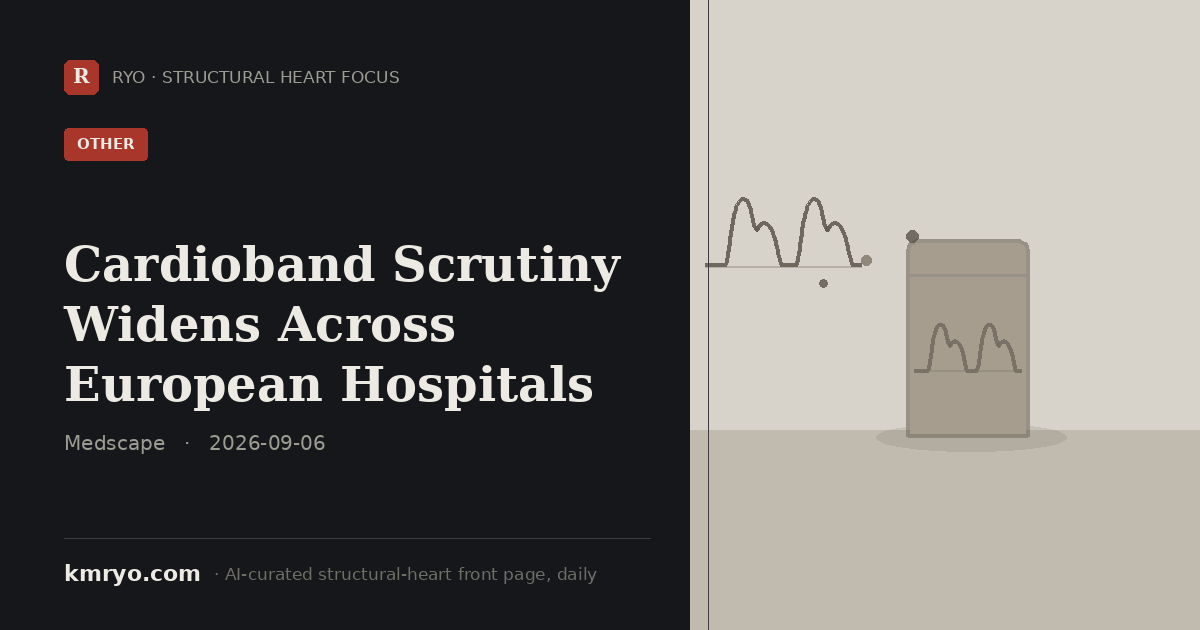
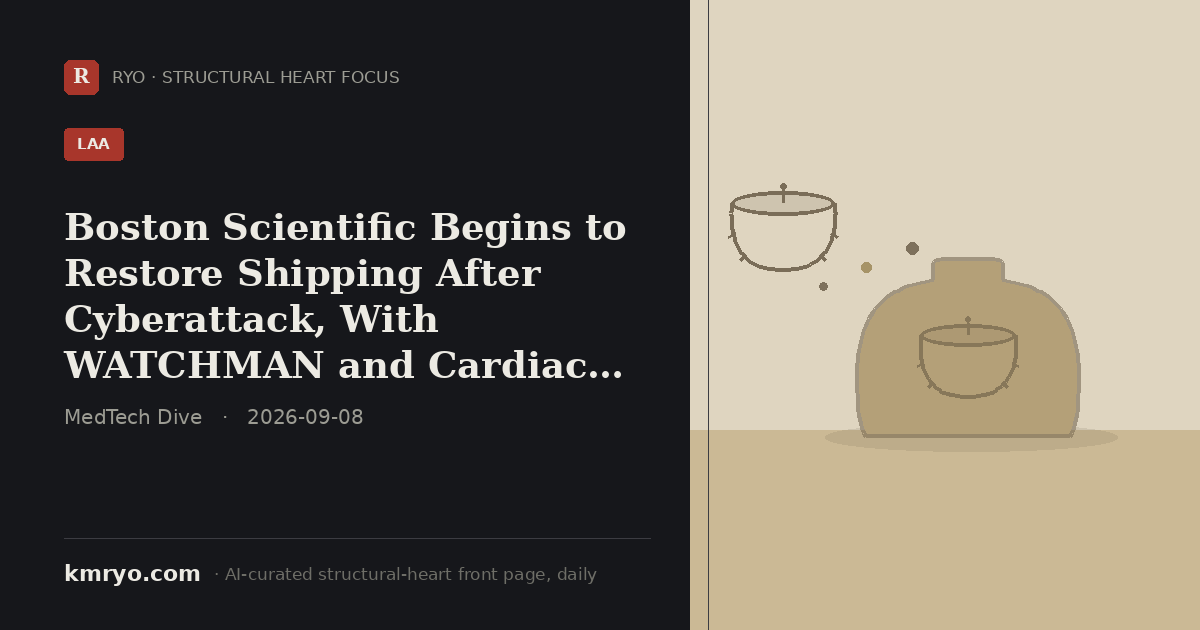
pulse: 2026-09-08 daily update
Claude-Session: https://claude.ai/code/session_01Pf5ib3bucTKQEFZGicXL93

Changed region(s): [[0.555, 0.3016, 1.0, 1.0], [0.0308, 0.3317, 0.5242, 0.7238], [0.0617, 0.181, 0.1233, 0.2714]]

diff --git a/index.html b/index.html
@@ -6,8 +6,8 @@
 <title>Structural Heart Focus — Daily | Dr. Mi Chen · 千觅量子 RYO</title>
 <meta name="description" content="Structural Heart Focus — the day's most important structural-heart reading (top journals, major meetings and the field's conversation), curated daily by an AI agent from inside the Zurich hybrid room. By Dr. Mi Chen · 千觅量子 RYO.">
 <!-- Social share card. Regenerated daily by the pulse agent (pulse/make_share_card.py); og:title/description updated to the day's top story so LinkedIn/WeChat/X show today's headline, not a static portrait. -->
-<meta property="og:title" content="Cardioband Scrutiny Widens Across European Hospitals">
-<meta property="og:description" content="A 216-page USZ commission report links Cardioband misuse under ex-chief Francesco Maisano to dozens of excess deaths (2016-2020), prompting reviews at Bern and German hospitals.">
+<meta property="og:title" content="Boston Scientific Begins to Restore Shipping After Cyberattack">
+<meta property="og:description" content="A cyberattack disclosed August 26 disrupted order processing and shipping for WATCHMAN, pacemakers, ICDs and other cardiac devices; Boston Scientific began restoring shipments September 4.">
 <meta property="og:image" content="https://www.kmryo.com/pulse/img/share/card.png">
 <meta property="og:image:width" content="1200">
 <meta property="og:image:height" content="630">
@@ -16,8 +16,8 @@
 <meta property="og:type" content="website">
 <meta property="og:site_name" content="kmryo.com · Structural Heart Focus">
 <meta name="twitter:card" content="summary_large_image">
-<meta name="twitter:title" content="Cardioband Scrutiny Widens Across European Hospitals">
-<meta name="twitter:description" content="A 216-page USZ commission report links Cardioband misuse under ex-chief Francesco Maisano to dozens of excess deaths (2016-2020), prompting reviews at Bern and German hospitals.">
+<meta name="twitter:title" content="Boston Scientific Begins to Restore Shipping After Cyberattack">
+<meta name="twitter:description" content="A cyberattack disclosed August 26 disrupted order processing and shipping for WATCHMAN, pacemakers, ICDs and other cardiac devices; Boston Scientific began restoring shipments September 4.">
 <meta name="twitter:image" content="https://www.kmryo.com/pulse/img/share/card.png">
[1 lines of base64/hex data omitted]
 <link rel="preconnect" href="https://fonts.googleapis.com">
